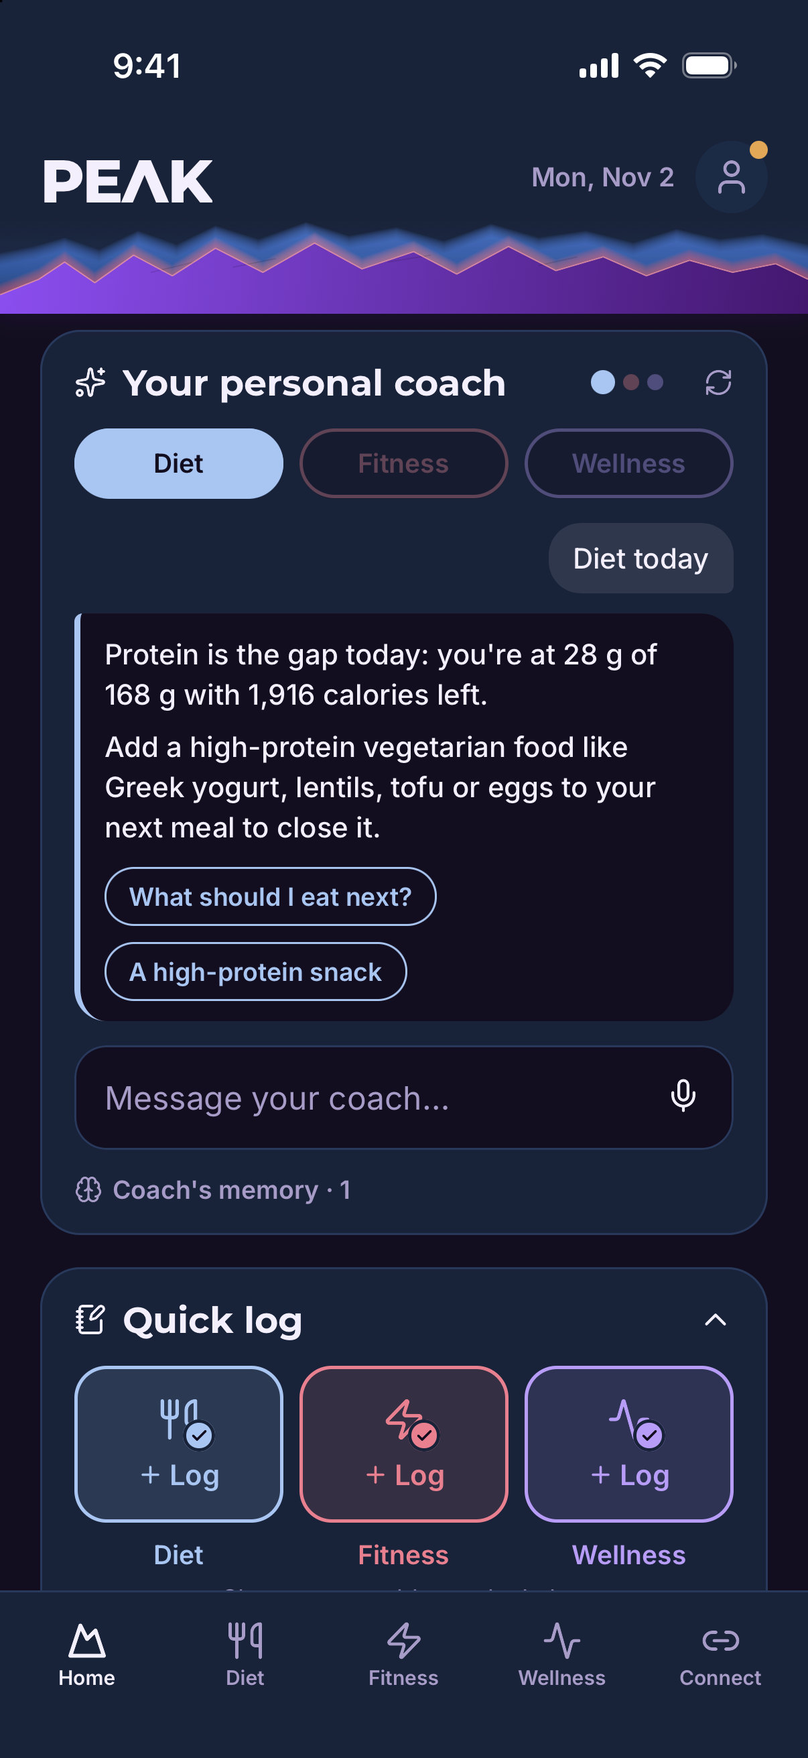
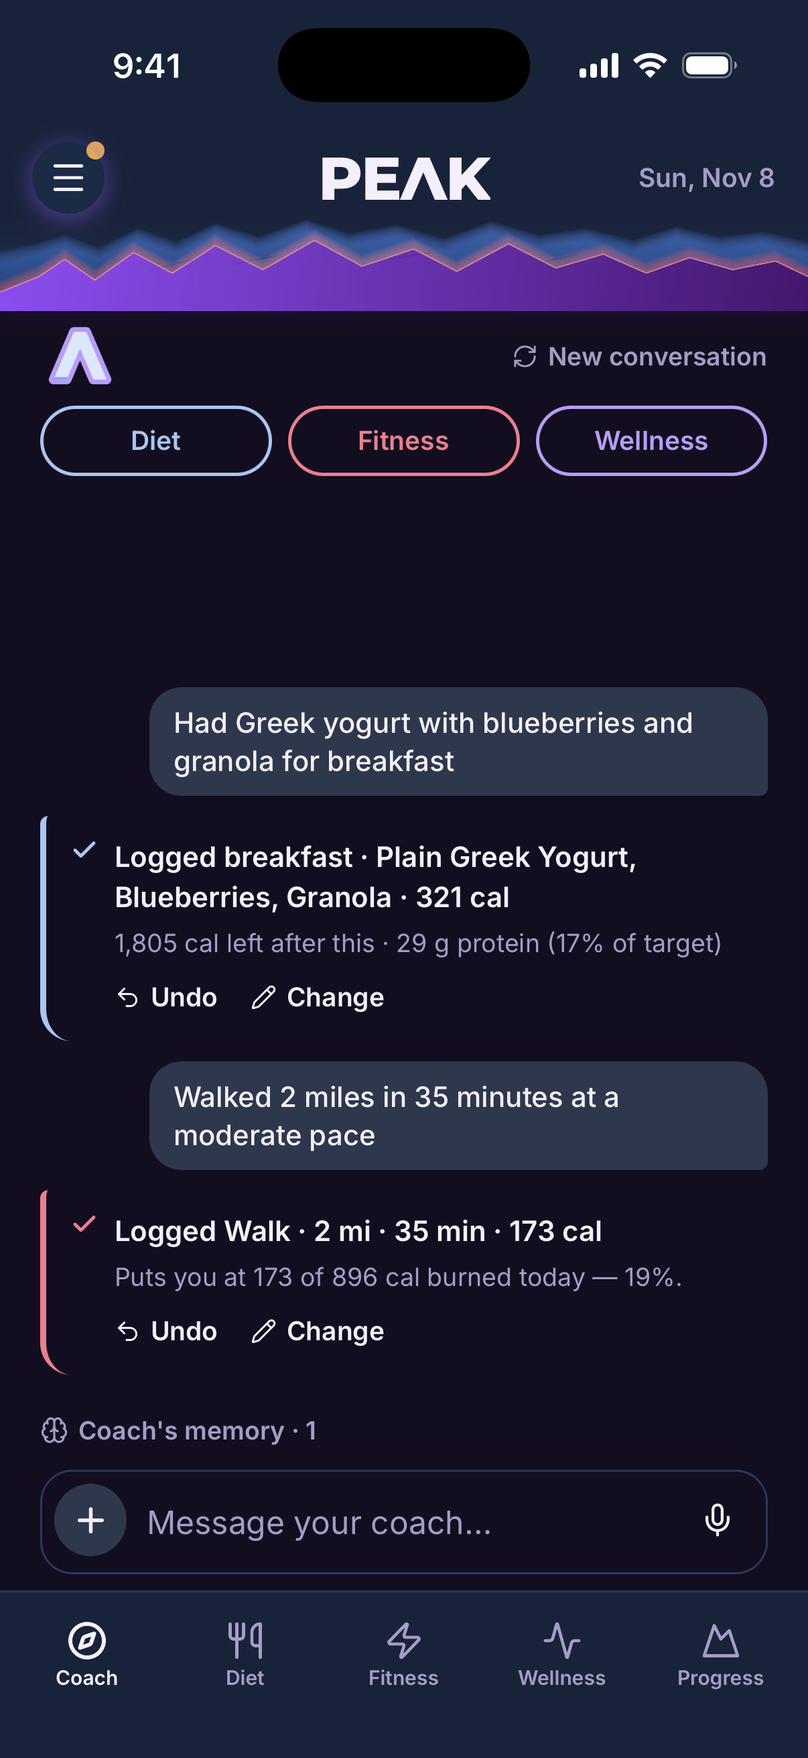
Website: Coach-first copy, fresh screenshots (Coach, Progress, Diet, Fitness, Wellness, meal review, coach chat), Progress section, Sharing and Integrations

diff --git a/index.html b/index.html
@@ -3,8 +3,8 @@
 <head>
 <meta charset="utf-8">
 <meta name="viewport" content="width=device-width, initial-scale=1, viewport-fit=cover">
-<title>PEAK — Diet, fitness &amp; wellness in one app</title>
-<meta name="description" content="Log a meal in a sentence, a workout in a tap and how you feel in one touch. PEAK brings diet, fitness and wellness into one daily climb, and shows you the patterns behind it.">
+<title>PEAK — A personal coach for diet, fitness &amp; wellness</title>
+<meta name="description" content="Tell your coach what you ate or how you moved and it's logged. Ask anything and get an answer from your own day. PEAK brings diet, fitness and wellness into one daily climb, and shows you the patterns behind it.">
 <link rel="canonical" href="https://usepeakapp.com/">
 <meta name="theme-color" content="#130E1F">
 <link rel="icon" type="image/png" href="assets/favicon-64.png">
@@ -15,12 +15,12 @@
 <meta property="og:type" content="website">
 <meta property="og:site_name" content="PEAK">
 <meta property="og:url" content="https://usepeakapp.com/">
-<meta property="og:title" content="PEAK — Diet, fitness &amp; wellness in one app">
-<meta property="og:description" content="Achieve your goals. See the patterns that move you. PEAK turns your meals, movement and mood into one daily climb.">
+<meta property="og:title" content="PEAK — A personal coach for diet, fitness &amp; wellness">
+<meta property="og:description" content="A coach that logs what you tell it, answers from your own day, and shows the patterns that move you. Diet, fitness and wellness in one daily climb.">
 <meta property="og:image" content="https://usepeakapp.com/assets/og.png">
 <meta name="twitter:card" content="summary_large_image">
 <script type="application/ld+json">
-{"@context":"https://schema.org","@type":"SoftwareApplication","name":"PEAK","applicationCategory":"HealthApplication","operatingSystem":"iOS","url":"https://usepeakapp.com/","description":"A diet, fitness and wellness tracker. Describe a meal in plain words for USDA nutrition, log workouts, check in on how you feel, and see the patterns that connect them."}
+{"@context":"https://schema.org","@type":"SoftwareApplication","name":"PEAK","applicationCategory":"HealthApplication","operatingSystem":"iOS","url":"https://usepeakapp.com/","description":"A personal coach for diet, fitness and wellness. Tell it what you ate or how you moved and it logs it with USDA nutrition, ask it anything about your day, check in on how you feel, and see the patterns that connect them."}
 </script>
 <script>document.documentElement.classList.add("js")</script>
 </head>
@@ -118,7 +118,7 @@
         <span style="color:var(--wellness)"><i style="background:var(--wellness)"></i>Wellness</span>
       </div>
       <h1>Find your <span class="lam">peak.</span></h1>
-      <p class="lede">Achieve your goals. See the patterns that move you. What you eat, how you move and how you feel shape each other, and PEAK puts all three into one daily climb.</p>
+      <p class="lede">A coach that knows your day. Tell it what you ate or how you moved and it's logged. Ask it anything and the answer comes from your own numbers. Diet, fitness and wellness, one daily climb.</p>
       <div class="cta-row">
         <a class="btn btn-primary" href="mailto:jasonbgabler@gmail.com?subject=PEAK%20early%20access&amp;body=I'd%20like%20early%20access%20to%20PEAK%20on%20iPhone.">Get early access</a>
         <a class="btn btn-ghost" href="#how">See how it works</a>
@@ -126,10 +126,10 @@
       <p class="cta-note"><span>For iPhone</span><span class="dot"></span><span>Coming soon to the App Store</span><span class="dot"></span><span>Free during early access</span></p>
     </div>
 
-    <!-- Real screenshot of Home (demo account, current build). -->
+    <!-- Real screenshot of the Coach tab, the landing screen (demo account, current build). -->
     <div class="reveal">
       <div class="phone">
-        <picture><source type="image/webp" srcset="assets/shots/home-700.webp 700w, assets/shots/home-1206.webp 1206w" sizes="(max-width: 420px) 80vw, 310px"><img class="screen-img" src="assets/shots/home-700.jpg" srcset="assets/shots/home-700.jpg 700w, assets/shots/home-1206.jpg 1206w" sizes="(max-width: 420px) 80vw, 310px" width="1206" height="2622" fetchpriority="high" decoding="async" alt="PEAK's Home screen: today's climb as a Λ filling with diet and fitness, a check-in of Ascent, and your personal coach."></picture>
+        <picture><source type="image/webp" srcset="assets/shots/coach-home-700.webp 700w, assets/shots/coach-home-1206.webp 1206w" sizes="(max-width: 420px) 80vw, 310px"><img class="screen-img" src="assets/shots/coach-home-700.jpg" srcset="assets/shots/coach-home-700.jpg 700w, assets/shots/coach-home-1206.jpg 1206w" sizes="(max-width: 420px) 80vw, 310px" width="1206" height="2622" fetchpriority="high" decoding="async" alt="PEAK's Coach tab: the Λ, a greeting, Diet, Fitness and Wellness guidance chips, a message box and four suggested questions."></picture>
       </div>
     </div>
   </div>
@@ -143,7 +143,7 @@
       <div class="section-head reveal" style="margin-bottom:32px">
         <p class="eyebrow">Log it the way you'd say it</p>
         <h2>No database to dig through.</h2>
-        <p class="lede" style="margin-top:16px">Type it, say it, snap it or scan it. PEAK identifies each food, estimates the portion, and pulls the nutrition from the USDA FoodData Central database.</p>
+        <p class="lede" style="margin-top:16px">Type it, say it, snap it or scan it — on the Diet tab, or just tell your coach. PEAK identifies each food, estimates the portion, and pulls the nutrition from the USDA FoodData Central database. Fix a serving before you log, or afterward.</p>
       </div>
       <div class="ways two reveal">
         <div class="way"><svg><use href="#i-pencil"/></svg><h3>Type it</h3><p>"Greek yogurt with blueberries and granola."</p></div>
@@ -157,7 +157,7 @@
       </div>
     </div>
     <div class="reveal">
-      <div class="phone"><picture><source type="image/webp" srcset="assets/shots/meal-review-700.webp 700w, assets/shots/meal-review-1206.webp 1206w" sizes="(max-width: 420px) 80vw, 310px"><img class="screen-img" src="assets/shots/meal-review-700.jpg" srcset="assets/shots/meal-review-700.jpg 700w, assets/shots/meal-review-1206.jpg 1206w" sizes="(max-width: 420px) 80vw, 310px" width="1206" height="2622" loading="lazy" decoding="async" alt="PEAK's meal review: Greek yogurt, blueberries and granola, each with a serving size from USDA data, adding up to 321 calories, with Breakfast and Log buttons."></picture></div>
+      <div class="phone"><picture><source type="image/webp" srcset="assets/shots/meal-review-700.webp 700w, assets/shots/meal-review-1206.webp 1206w" sizes="(max-width: 420px) 80vw, 310px"><img class="screen-img" src="assets/shots/meal-review-700.jpg" srcset="assets/shots/meal-review-700.jpg 700w, assets/shots/meal-review-1206.jpg 1206w" sizes="(max-width: 420px) 80vw, 310px" width="1206" height="2622" loading="lazy" decoding="async" alt="PEAK's meal review: Greek yogurt, blueberries and granola, each with a serving size from USDA data, adding up to 321 calories, with the meal and a Log button."></picture></div>
     </div>
   </div>
 </section>
@@ -173,6 +173,7 @@
         <li><svg><use href="#i-check"/></svg><span><b>Diet</b> — calories against today's target, or the deficit you're running right now.</span></li>
         <li><svg><use href="#i-check"/></svg><span><b>Fitness</b> — calories burned or steps toward your goal, with Apple Health.</span></li>
         <li><svg><use href="#i-check"/></svg><span><b>Wellness</b> — one touch on a five-point climb, from Down to Peak.</span></li>
+        <li><svg><use href="#i-sparkles"/></svg><span><b>The summit</b> — fill both sides and check in, and the peak lights up. It's on the Coach tab too, so you see it the moment you open the app.</span></li>
       </ul>
     </div>
     <div class="glyph-panel reveal" aria-hidden="true">
@@ -202,12 +203,13 @@
 <section class="section" id="features">
   <div class="wrap">
     <div class="section-head center reveal">
-      <p class="eyebrow">Three tabs, one app</p>
+      <p class="eyebrow">Coach · Diet · Fitness · Wellness · Progress</p>
       <h2>Diet, fitness and wellness, finally talking to each other.</h2>
+      <p class="lede" style="margin-top:16px">Five tabs. The coach in the middle of it, one tab for each area, and Progress for where you stand.</p>
     </div>
     <div class="pillars">
       <article class="pillar diet reveal">
-        <div class="pillar-shot"><picture><source type="image/webp" srcset="assets/shots/diet-700.webp 700w, assets/shots/diet-1206.webp 1206w" sizes="(max-width: 900px) calc(100vw - 40px), 360px"><img src="assets/shots/diet-700.jpg" srcset="assets/shots/diet-700.jpg 700w, assets/shots/diet-1206.jpg 1206w" sizes="(max-width: 900px) calc(100vw - 40px), 360px" width="1206" height="1290" loading="lazy" decoding="async" alt="PEAK's Diet tab: 321 of 2,237 calories eaten, with today's diet box, Pantry and Up next."></picture></div>
+        <div class="pillar-shot"><picture><source type="image/webp" srcset="assets/shots/diet-700.webp 700w, assets/shots/diet-1206.webp 1206w" sizes="(max-width: 900px) calc(100vw - 40px), 360px"><img src="assets/shots/diet-700.jpg" srcset="assets/shots/diet-700.jpg 700w, assets/shots/diet-1206.jpg 1206w" sizes="(max-width: 900px) calc(100vw - 40px), 360px" width="1206" height="1290" loading="lazy" decoding="async" alt="PEAK's Diet tab: a plate at 426 of 2,231 calories with macros, and today's diet box with Pantry, Up next, camera, barcode and mic."></picture></div>
         <div class="icon"><svg><use href="#i-utensils"/></svg></div>
         <p class="tag">Diet</p>
         <h3>Know what's on your plate.</h3>
@@ -215,12 +217,13 @@
         <ul>
           <li>Calories, protein, carbs, fat and eight vitamins and minerals per meal</li>
           <li>Every meal shows where it lands: how much of today is left</li>
+          <li>Your usuals — the meals you keep logging, one tap each</li>
           <li>A pantry of the foods you keep, saved recipes, and a shopping list</li>
           <li>Meal plans built for your target, or imported from a plan you already follow</li>
         </ul>
       </article>
       <article class="pillar fitness reveal">
-        <div class="pillar-shot"><picture><source type="image/webp" srcset="assets/shots/fitness-700.webp 700w, assets/shots/fitness-1206.webp 1206w" sizes="(max-width: 900px) calc(100vw - 40px), 360px"><img src="assets/shots/fitness-700.jpg" srcset="assets/shots/fitness-700.jpg 700w, assets/shots/fitness-1206.jpg 1206w" sizes="(max-width: 900px) calc(100vw - 40px), 360px" width="1206" height="1290" loading="lazy" decoding="async" alt="PEAK's Fitness tab: 19% of today's burn on a lap, with today's fitness box."></picture></div>
+        <div class="pillar-shot"><picture><source type="image/webp" srcset="assets/shots/fitness-700.webp 700w, assets/shots/fitness-1206.webp 1206w" sizes="(max-width: 900px) calc(100vw - 40px), 360px"><img src="assets/shots/fitness-700.jpg" srcset="assets/shots/fitness-700.jpg 700w, assets/shots/fitness-1206.jpg 1206w" sizes="(max-width: 900px) calc(100vw - 40px), 360px" width="1206" height="1290" loading="lazy" decoding="async" alt="PEAK's Fitness tab: a lap at 19% of today's burn, 173 of 896 calories, with today's fitness box."></picture></div>
         <div class="icon"><svg><use href="#i-zap"/></svg></div>
         <p class="tag">Fitness</p>
         <h3>Every kind of movement counts.</h3>
@@ -233,7 +236,7 @@
         </ul>
       </article>
       <article class="pillar wellness reveal">
-        <div class="pillar-shot"><picture><source type="image/webp" srcset="assets/shots/wellness-700.webp 700w, assets/shots/wellness-1206.webp 1206w" sizes="(max-width: 900px) calc(100vw - 40px), 360px"><img src="assets/shots/wellness-700.jpg" srcset="assets/shots/wellness-700.jpg 700w, assets/shots/wellness-1206.jpg 1206w" sizes="(max-width: 900px) calc(100vw - 40px), 360px" width="1206" height="1290" loading="lazy" decoding="async" alt="PEAK's Wellness tab: a mountain sunrise check-in at Ascent and today's gratitude note."></picture></div>
+        <div class="pillar-shot"><picture><source type="image/webp" srcset="assets/shots/wellness-700.webp 700w, assets/shots/wellness-1206.webp 1206w" sizes="(max-width: 900px) calc(100vw - 40px), 360px"><img src="assets/shots/wellness-700.jpg" srcset="assets/shots/wellness-700.jpg 700w, assets/shots/wellness-1206.jpg 1206w" sizes="(max-width: 900px) calc(100vw - 40px), 360px" width="1206" height="1290" loading="lazy" decoding="async" alt="PEAK's Wellness tab: a mountain sunrise check-in at Balanced, right at your 30-day usual, and today's gratitude box."></picture></div>
         <div class="icon"><svg><use href="#i-activity"/></svg></div>
         <p class="tag">Wellness</p>
         <h3>How you feel is data too.</h3>
@@ -255,29 +258,49 @@
     <div class="reveal">
       <p class="eyebrow">Your personal coach</p>
       <h2>One coach for your whole day.</h2>
-      <p class="lede" style="margin-top:16px">Part trainer, part nutritionist, part wellness coach. Ask a question or just tell it what you did: it reads your day and your goals, answers from whichever angle the question needs, and logs what you mention.</p>
+      <p class="lede" style="margin-top:16px">Part trainer, part nutritionist, part wellness coach, and the first thing you see when you open PEAK. Ask a question or just tell it what you did: it reads your day and your goals, answers from whichever angle the question needs, and logs what you mention.</p>
       <ul class="points">
-        <li><svg><use href="#i-check"/></svg><span><b>Logs as you talk.</b> "Had oatmeal and coffee" becomes a breakfast entry, with Undo.</span></li>
-        <li><svg><use href="#i-check"/></svg><span><b>Answers with your numbers.</b> What's left today, what your week looks like.</span></li>
-        <li><svg><use href="#i-check"/></svg><span><b>Remembers what matters.</b> Tell it you're vegetarian once.</span></li>
+        <li><svg><use href="#i-check"/></svg><span><b>Logs as you talk.</b> "Had oatmeal and coffee" or "walked 2 miles in 35 minutes" becomes an entry, with Undo and Change right there. Yesterday counts too.</span></li>
+        <li><svg><use href="#i-check"/></svg><span><b>Leads with what to do.</b> One clear recommendation, with the figures it rests on one tap below.</span></li>
+        <li><svg><use href="#i-check"/></svg><span><b>Turns an answer into a goal.</b> One tap makes it this week's goal.</span></li>
+        <li><svg><use href="#i-check"/></svg><span><b>Remembers what matters.</b> Tell it you're vegetarian once. Every conversation stays on your phone, under Recents.</span></li>
       </ul>
     </div>
     <div class="reveal">
-      <div class="phone"><picture><source type="image/webp" srcset="assets/shots/coach-700.webp 700w, assets/shots/coach-1206.webp 1206w" sizes="(max-width: 420px) 80vw, 310px"><img class="screen-img" src="assets/shots/coach-700.jpg" srcset="assets/shots/coach-700.jpg 700w, assets/shots/coach-1206.jpg 1206w" sizes="(max-width: 420px) 80vw, 310px" width="1206" height="2622" loading="lazy" decoding="async" alt="Your personal coach answering a Diet question: protein is the gap today, 28 of 168 grams, with suggestions to close it."></picture></div>
+      <div class="phone"><picture><source type="image/webp" srcset="assets/shots/coach-700.webp 700w, assets/shots/coach-1206.webp 1206w" sizes="(max-width: 420px) 80vw, 310px"><img class="screen-img" src="assets/shots/coach-700.jpg" srcset="assets/shots/coach-700.jpg 700w, assets/shots/coach-1206.jpg 1206w" sizes="(max-width: 420px) 80vw, 310px" width="1206" height="2622" loading="lazy" decoding="async" alt="Your personal coach logging a breakfast and a two-mile walk from a sentence each, with Undo and Change under each entry."></picture></div>
+    </div>
+  </div>
+</section>
+
+<!-- PROGRESS -->
+<section class="section">
+  <div class="wrap split">
+    <div class="reveal">
+      <p class="eyebrow">Progress</p>
+      <h2>Where you stand, on one screen.</h2>
+      <p class="lede" style="margin-top:16px">Today's climb, the goal you're working toward and the pace you're on, the experiment you're running, and what's planned for the week.</p>
+      <ul class="points">
+        <li><svg><use href="#i-mountain"/></svg><span><b>Your goal.</b> How far to go and when you'd get there at your current pace. Weigh in right there.</span></li>
+        <li><svg><use href="#i-repeat"/></svg><span><b>Your Experiments.</b> One suggested from your goal, ready to start in a tap.</span></li>
+        <li><svg><use href="#i-calendar"/></svg><span><b>Your plans.</b> Up next from your plan, and how the week is going in each area.</span></li>
+      </ul>
+    </div>
+    <div class="reveal">
+      <div class="phone"><picture><source type="image/webp" srcset="assets/shots/progress-700.webp 700w, assets/shots/progress-1206.webp 1206w" sizes="(max-width: 420px) 80vw, 310px"><img class="screen-img" src="assets/shots/progress-700.jpg" srcset="assets/shots/progress-700.jpg 700w, assets/shots/progress-1206.jpg 1206w" sizes="(max-width: 420px) 80vw, 310px" width="1206" height="2622" loading="lazy" decoding="async" alt="PEAK's Progress tab: today's climb as a Λ at 19% intake and 19% burn with a Balanced check-in, Your goal, Your Experiments and Your plans."></picture></div>
     </div>
   </div>
 </section>
 
 <!-- PATTERNS -->
 <section class="section">
-  <div class="wrap split">
+  <div class="wrap split flip">
     <div class="reveal">
       <p class="eyebrow">Patterns, not just totals</p>
       <h2>It finds what you'd never spot.</h2>
       <p class="lede" style="margin-top:16px">PEAK compares your own days against each other — mood against movement, sleep, steps and when you eat — and says what it finds in a sentence. Then you can test it.</p>
       <ul class="points">
         <li><svg><use href="#i-sparkles"/></svg><span><b>Patterns</b> in plain words, drawn only from your logs.</span></li>
-        <li><svg><use href="#i-repeat"/></svg><span><b>Two-week experiments</b> that score whether a change actually helped, and say so when it didn't.</span></li>
+        <li><svg><use href="#i-repeat"/></svg><span><b>Two-week experiments</b> scored against your own four weeks before, that say so when a change didn't help.</span></li>
         <li><svg><use href="#i-book"/></svg><span><b>Cited habits</b> from a library where every card names its source.</span></li>
       </ul>
     </div>
@@ -294,7 +317,7 @@
 
 <!-- PLANS -->
 <section class="section">
-  <div class="wrap split flip">
+  <div class="wrap split">
     <div class="reveal">
       <p class="eyebrow">Plan once, follow all week</p>
       <h2>Plan your week. Let it log itself.</h2>
@@ -319,9 +342,9 @@
 <section class="section">
   <div class="wrap">
     <div class="section-head center reveal">
-      <p class="eyebrow">Connect</p>
+      <p class="eyebrow">Sharing</p>
       <h2>Climbing is easier together.</h2>
-      <p class="lede" style="margin-top:16px">Share only the summaries you choose. Pause any time. Ending a connection stops sharing at once.</p>
+      <p class="lede" style="margin-top:16px">From the menu, invite someone with a link and share only the summaries you choose. Pause any time. Ending a connection stops sharing at once. Integrations live next door: Apple Health, and planned meals and workouts on your calendar.</p>
     </div>
     <div class="connect-grid">
       <div class="connect-card reveal"><svg><use href="#i-heart"/></svg><h3>Accountability partners</h3><p>Keep each other honest with streaks, weekly challenges and a quick cheer.</p></div>
@@ -358,7 +381,8 @@
       <details><summary>Is PEAK free?</summary><p>Yes, PEAK is free during early access. If paid features arrive later, we'll say what's included before anything changes.</p></details>
       <details><summary>When can I get it?</summary><p>PEAK is in early access on iPhone now and coming soon to the App Store. Email us for an invite and we'll send one.</p></details>
       <details><summary>Is there an Android version?</summary><p>PEAK is iPhone-first. Android is on the roadmap.</p></details>
-      <details><summary>Does it work with Apple Health?</summary><p>Yes. Connect Apple Health and PEAK reads your workouts, steps, sleep and resting heart rate, so you don't have to log them twice. It's optional, and you can disconnect any time.</p></details>
+      <details><summary>Can the coach log things for me?</summary><p>Yes. Tell it what you ate or how you moved, today or an earlier day, and it logs it with Undo and Change underneath. If it can't tell what you meant, it asks one question first.</p></details>
+      <details><summary>Does it work with Apple Health?</summary><p>Yes. Connect Apple Health from the menu under Integrations and PEAK reads your workouts, steps, sleep and resting heart rate, so you don't have to log them twice. It's optional, and you can disconnect any time.</p></details>
       <details><summary>How accurate is the nutrition?</summary><p>PEAK identifies the foods you describe and takes their nutrition from USDA FoodData Central, including manufacturer label data for packaged and store-brand foods. You can adjust any portion before you log it.</p></details>
       <details><summary>Is this medical advice?</summary><p>No. PEAK is a wellness tool for self-tracking and general guidance. It isn't a medical device and doesn't diagnose or treat anything. Talk with a qualified professional about medical questions.</p></details>
       <details><summary>Can I take my data with me, or delete it?</summary><p>Yes. Export everything from Profile → Data &amp; privacy, or delete your account and all of its data from the same place. <a href="delete-account.html" style="color:var(--accent)">More on deleting your account</a>.</p></details>

diff --git a/privacy-policy.html b/privacy-policy.html
@@ -45,7 +45,7 @@
     <p>Precise location (optional, only while tracking): if you use Fitness &gt; Route Tracker to record a Walk, Run, Hike or Bike ride, PEAK collects your precise location only while tracking is actively running, to compute distance, pace and the route. It is requested in the moment you start a route and never collected in the background. The route is stored on that one logged activity.</p>
     <p>Voice input (optional): where you tap a microphone button, your speech is converted to text using your device's speech recognition. Depending on your device settings, Apple may process that audio under its own privacy terms. PEAK receives and stores only the resulting text, never the audio.</p>
     <p>Notifications and device: if you allow notifications, your device's push token is stored so reminders can reach you. Reminders you schedule on your device stay on your device, including the halfway and result reminders a running experiment sets. Face ID or Touch ID, if you turn it on, is handled entirely by your device; PEAK never sees your biometric data and only keeps a sign-in token in your device's secure storage.</p>
-    <p>Kept only on your device: the library cards you save and a record of which cards you have been shown, the habits PEAK suggests each day and the stores it learns your grocery items come from, your workout preferences (days a week, equipment and the kinds of exercise you enjoy), the other apps you ask PEAK to connect to, the days you finished a Wellness practice, a gratitude note written before that day's check-in (until the check-in saves it to your account), the name and dates of a workout plan you imported (to show which week of it you are in), whether PEAK logs your plan for you, whether planned workouts and meals go on your phone's calendar and which calendar (and the events it made), whether calories are shown or hidden on the main screens, and your reminder settings. These are not stored in your account and are not part of an export. They stay on that phone and are removed when you delete the app. Your workout preferences are sent to Claude when you ask for a workout suggestion, as described below.</p>
+    <p>Kept only on your device: the library cards you save and a record of which cards you have been shown, the habits PEAK suggests each day and the stores it learns your grocery items come from, your workout preferences (days a week, equipment and the kinds of exercise you enjoy), the other apps you ask PEAK to connect to, the days you finished a Wellness practice, a gratitude note written before that day's check-in (until the check-in saves it to your account), the name and dates of a workout plan you imported (to show which week of it you are in), whether PEAK logs your plan for you, whether planned workouts and meals go on your phone's calendar and which calendar (and the events it made), whether calories are shown or hidden on the main screens, and your reminder settings (the evening wrap-up reminder's one line is written on your phone from that day's logs). These are not stored in your account and are not part of an export. They stay on that phone and are removed when you delete the app. Your workout preferences are sent to Claude when you ask for a workout suggestion, as described below.</p>
     <p>Technical information: crash reports and coarse usage signals, described under "Crash reports and app analytics" below.</p>
 
     <h2>Before you create an account</h2>
